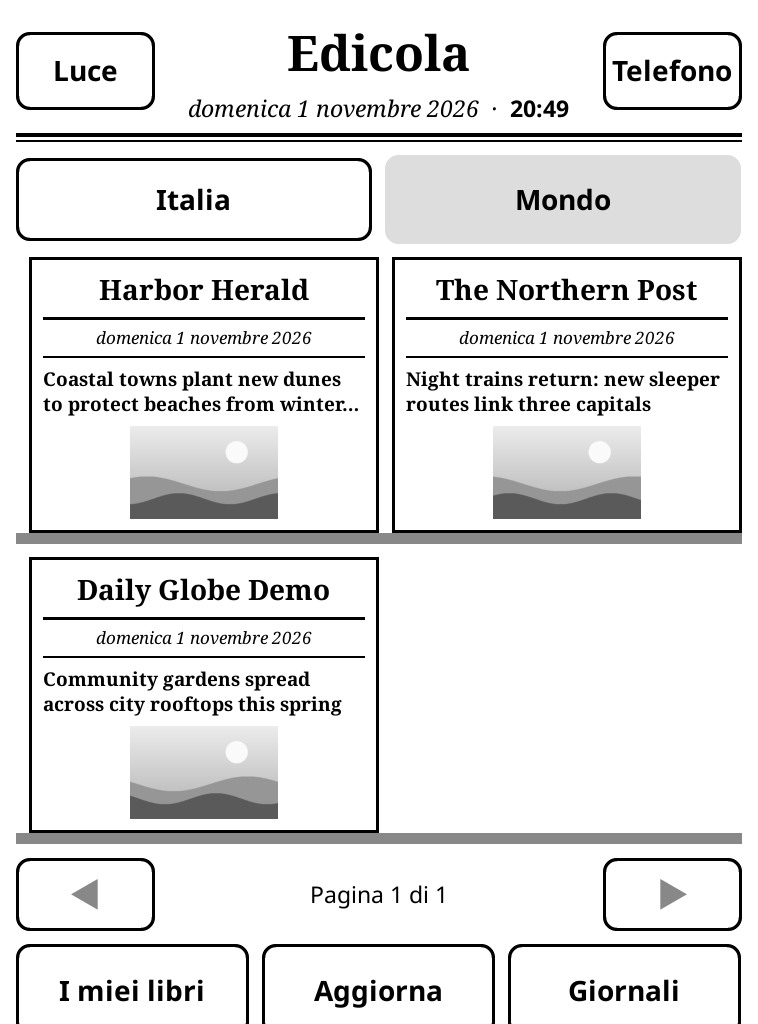
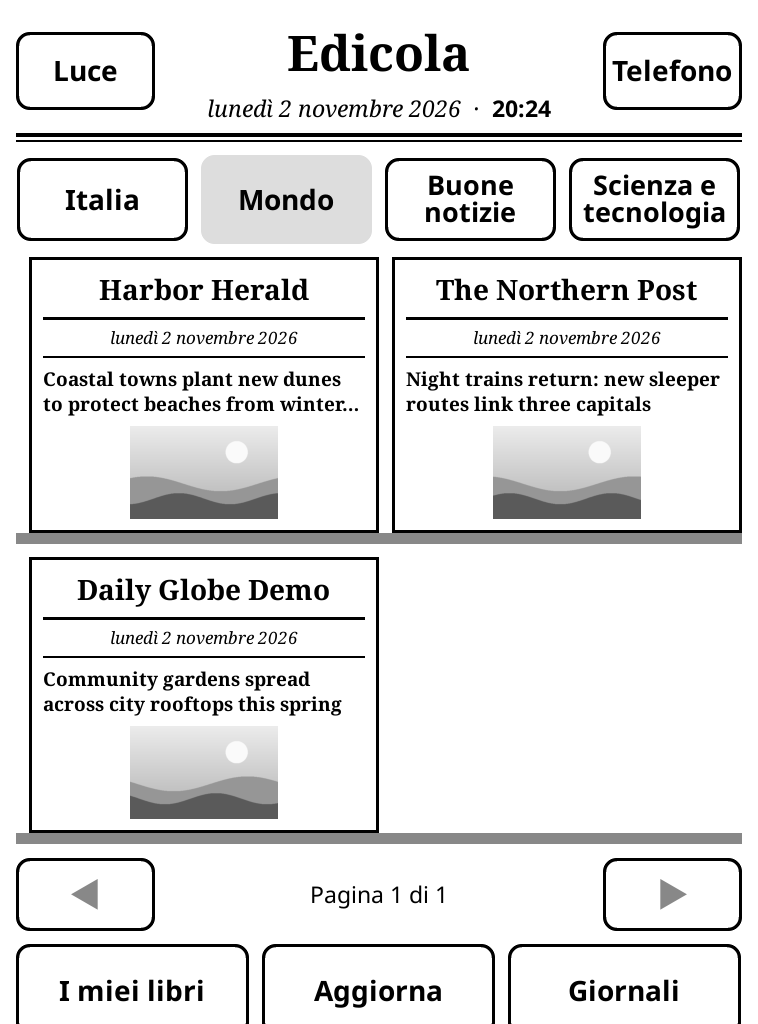
Buone notizie and Scienza e tecnologia shelves
Two new shelves next to Italia and Mondo, four tabs in one row (long
labels wrap to two lines). 19 new feeds, live-tested with the
extractor. Defaults: Italia che Cambia, Positive News, Good News
Network, Reasons to be Cheerful; Focus, ANSA Scienza, Guardian Science,
Ars Technica. Wired Italia moves from Italia to Scienza.

An existing paper selection gets the new defaults once
(konewspaper_defaults_v4), so the new shelves aren't empty after an
update. The test now checks catalog ids and sections. Screenshots
regenerated, plus the two new shelves.

diff --git a/tools/screenshots/make_demo.py b/tools/screenshots/make_demo.py
@@ -16,6 +16,10 @@ PAPERS = [  # id, name, section, headline
     ("harbor", "Harbor Herald", "mondo", "Coastal towns plant new dunes to protect beaches from winter storms"),
     ("north", "The Northern Post", "mondo", "Night trains return: new sleeper routes link three capitals"),
     ("globe", "Daily Globe Demo", "mondo", "Community gardens spread across city rooftops this spring"),
+    ("sorriso", "Il Sorriso Quotidiano", "buone", "Il paese adotta i nonni: ogni giovedì merenda e racconti a scuola"),
+    ("sunny", "Sunny Side Post", "buone", "A retired baker teaches the whole street to make bread on Sundays"),
+    ("stelle", "Cronache delle Stelle", "scienza", "Una nuova cometa sarà visibile a occhio nudo prima di Natale"),
+    ("lab", "Lab Notes Demo", "scienza", "Quieter, cheaper heat pumps reach small apartments"),
 ]
 
 ARTICLE = ("Questo è un testo di esempio scritto per le immagini del README. "

diff --git a/README.md b/README.md
@@ -21,14 +21,14 @@ are fictional demo content (`tools/screenshots/make_demo.py`).*
 
 ## What it does
 
-- **Edicola**: the home screen. Two shelves, **Italia** and **Mondo**, each showing a front page per
+- **Edicola**: the home screen. Four shelves: **Italia** and **Mondo** (news, politics, economy), **Buone notizie** (good news only) and **Scienza e tecnologia**. Each shows a front page per
   newspaper: masthead, date, top headline and photo. Tap a newspaper to read today's edition. It is
   downloaded first if needed: Wi-Fi turns on by itself, then turns off again.
 - **Clean articles**: each edition is one EPUB. A front page lists the headlines, then there's one
   chapter per article with just the text and up to 3 photos. Menus, ads, sidebars, cookie walls and
   outbound links are removed by a small text-density extractor (`knp_extract.lua`). The last 3 days
   are kept.
-- **Giornali**: tick which of the 26 free newspapers in the catalog (`giornali.lua`) go on the shelves.
+- **Giornali**: tick which of the 45 free newspapers in the catalog (`giornali.lua`) go on the shelves.
 - **I miei libri**: every EPUB/PDF on the device in one big list. One tap opens a book.
 - **Luce**: frontlight brightness and warmth.
 - **Telefono**: receive files from a phone over Wi-Fi with the free [LocalSend](https://localsend.org)
